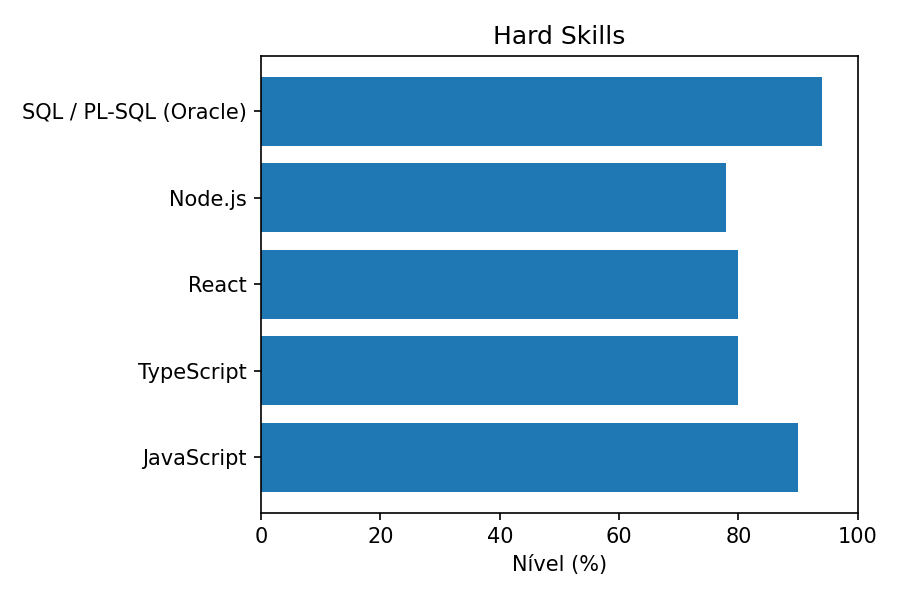
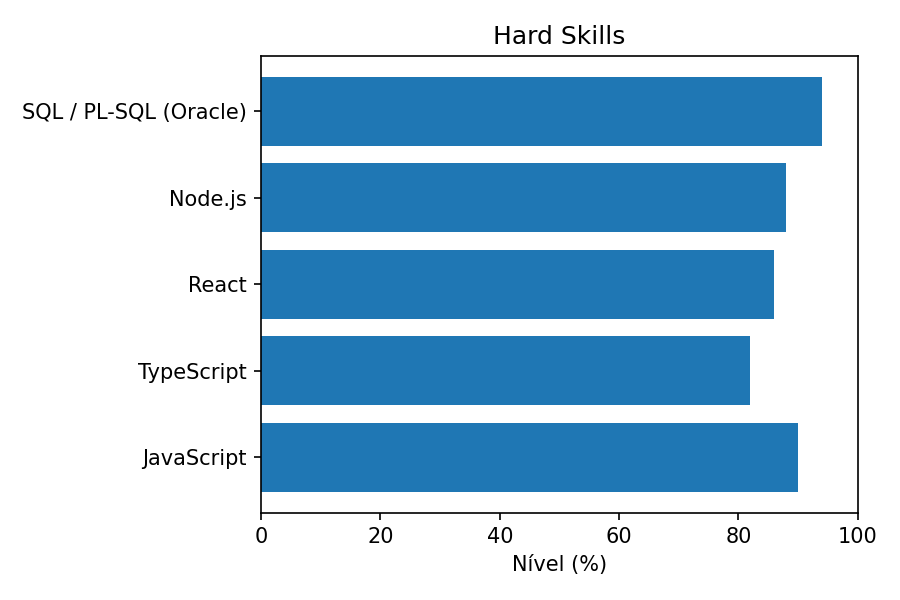
doc: Upgrade in hard skills end soft skills

Changed region(s): [[0.8089, 0.42, 0.8711, 0.69], [0.8089, 0.27, 0.8711, 0.39]]

diff --git a/graphics/soft_skills.py b/graphics/soft_skills.py
@@ -2,10 +2,10 @@ import matplotlib.pyplot as plt
 
 soft_skills = {
     "Resolução de problemas": 90,
-    "Comunicação": 85,
+    "Comunicação Efetiva": 85,
     "Trabalho em equipe": 88,
     "Pensamento crítico": 86,
-    "Aprendizado contínuo": 94
+    "Aprendizado Contínuo": 94
 }
 
 plt.figure(figsize=(6, 4))

diff --git a/graphics/hard_skills.py b/graphics/hard_skills.py
@@ -2,9 +2,9 @@ import matplotlib.pyplot as plt
 
 hard_skills = {
     "JavaScript": 90,
-    "TypeScript": 80,
-    "React": 80,
-    "Node.js": 78,
+    "TypeScript": 82,
+    "React": 86,
+    "Node.js": 88,
     "SQL / PL-SQL (Oracle)": 94
 }
 
